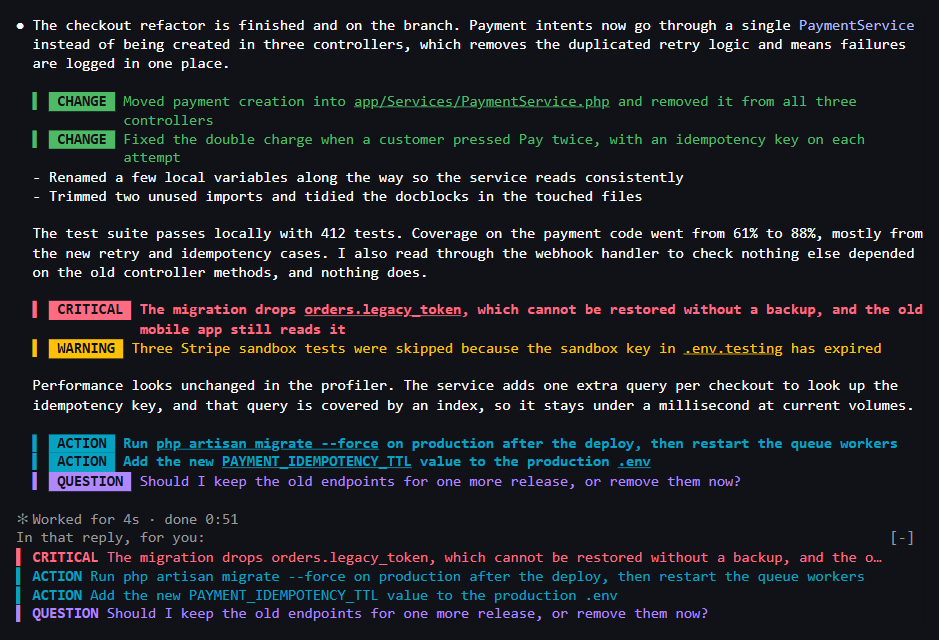
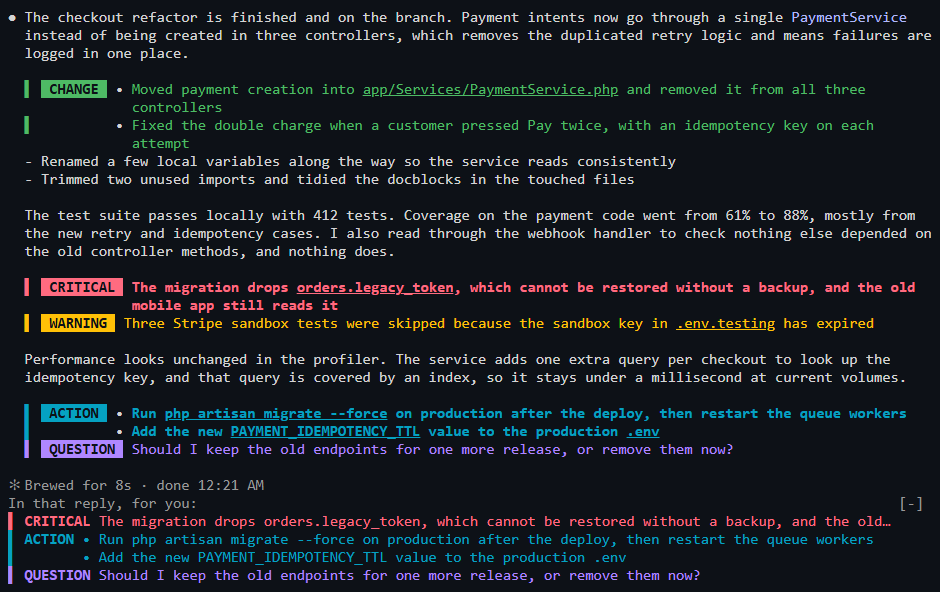
feat: group the recap's labels and refresh the screenshot
Lines of one category next to each other in the recap above the prompt
now share a single label, matching the reply. Retake docs/after.png from
a real session so the README shows the grouping.

Bump to 0.1.2.

Changed region(s): [[0.0, 0.0, 0.9883, 1.0], [0.9574, 0.8209, 0.9883, 0.8514]]

diff --git a/tests/highlight.test.tsx b/tests/highlight.test.tsx
@@ -207,6 +207,23 @@ test('a run of warnings wears one badge and keeps every line', async ($, on) => 
   await ui.unmount()
 })
 
+test('the recap gives a run of one category a single label', async ($, on) => {
+  const digest = [
+    { id: 'critical', text: 'Back it up' },
+    { id: 'action', text: 'Run it' },
+    { id: 'action', text: 'Set it' },
+    { id: 'question', text: 'Keep it?' },
+  ]
+  on('state.get', ($, e, next) => (e.key === 'digest' ? { value: { value: digest, version: 1 } } : next(e)))
+  const ui = await $.ui.mount({ plugin: 'highlighter', surface: 'terminal', component: 'AbovePrompt', props: { hasSurvey: false, isWorking: false } } as any)
+  const lines = (await ui.findAll({ type: 'Text' })).map(t => t.text)
+  expect(lines.filter(t => /Back it up/.test(t))).toEqual(['▌ CRITICAL Back it up'])
+  expect(lines.filter(t => /Run it/.test(t))).toEqual(['▌ ACTION • Run it'])
+  expect(lines.filter(t => /Set it/.test(t))).toEqual(['▌        • Set it'])
+  expect(lines.filter(t => /Keep it/.test(t))).toEqual(['▌ QUESTION Keep it?'])
+  await ui.unmount()
+})
+
 test('a reply with nothing flagged goes to the engine as it was', async ($, on) => {
   on('ui.render', ($, e) => {
     const { Text } = $.ui.resolve(e)

diff --git a/hooks/register.tsx b/hooks/register.tsx
@@ -268,13 +268,16 @@ export const register: Register = on => {
     return (
       <Box flexDirection="column">
         <Text dimColor>In that reply, for you:</Text>
-        {items.map(item => {
+        {items.map((item, index) => {
           const category = config.categories[item.id]
           if (category === undefined) return <Text wrap="truncate-end">{item.text}</Text>
+          const isFollower = items[index - 1]?.id === item.id
+          const isGrouped = isFollower || items[index + 1]?.id === item.id
           return (
             <Text wrap="truncate-end" color={category.color}>
               {BAR}
-              <Text weight="bold">{category.label}</Text> {item.text}
+              <Text weight="bold">{isFollower ? ' '.repeat(category.label.length) : category.label}</Text> {isGrouped ? '• ' : ''}
+              {item.text}
             </Text>
           )
         })}

diff --git a/README.md b/README.md
@@ -47,7 +47,7 @@ Add your own categories in the config file.
 2. **Rules catch the rest.** If a reply has no tags at all, regex rules look at the start of each line for things like `Warning:`, `You need to` or `Fixed`. Replies that do have tags skip the rules, so they stay precise.
 3. **Long replies get a recap.** After a reply of 12 lines or more, the `critical`, `action` and `question` lines are repeated just above the prompt until you send your next message.
 
-Neighbouring lines of the same category share one badge, so three caveats in a row read as one warning.
+Neighbouring lines of the same category share one label, in the reply and in the recap, so three caveats in a row read as one warning.
 
 Replies with nothing to highlight are drawn exactly as Claude Code draws them. Code blocks and tables are never touched.
 
